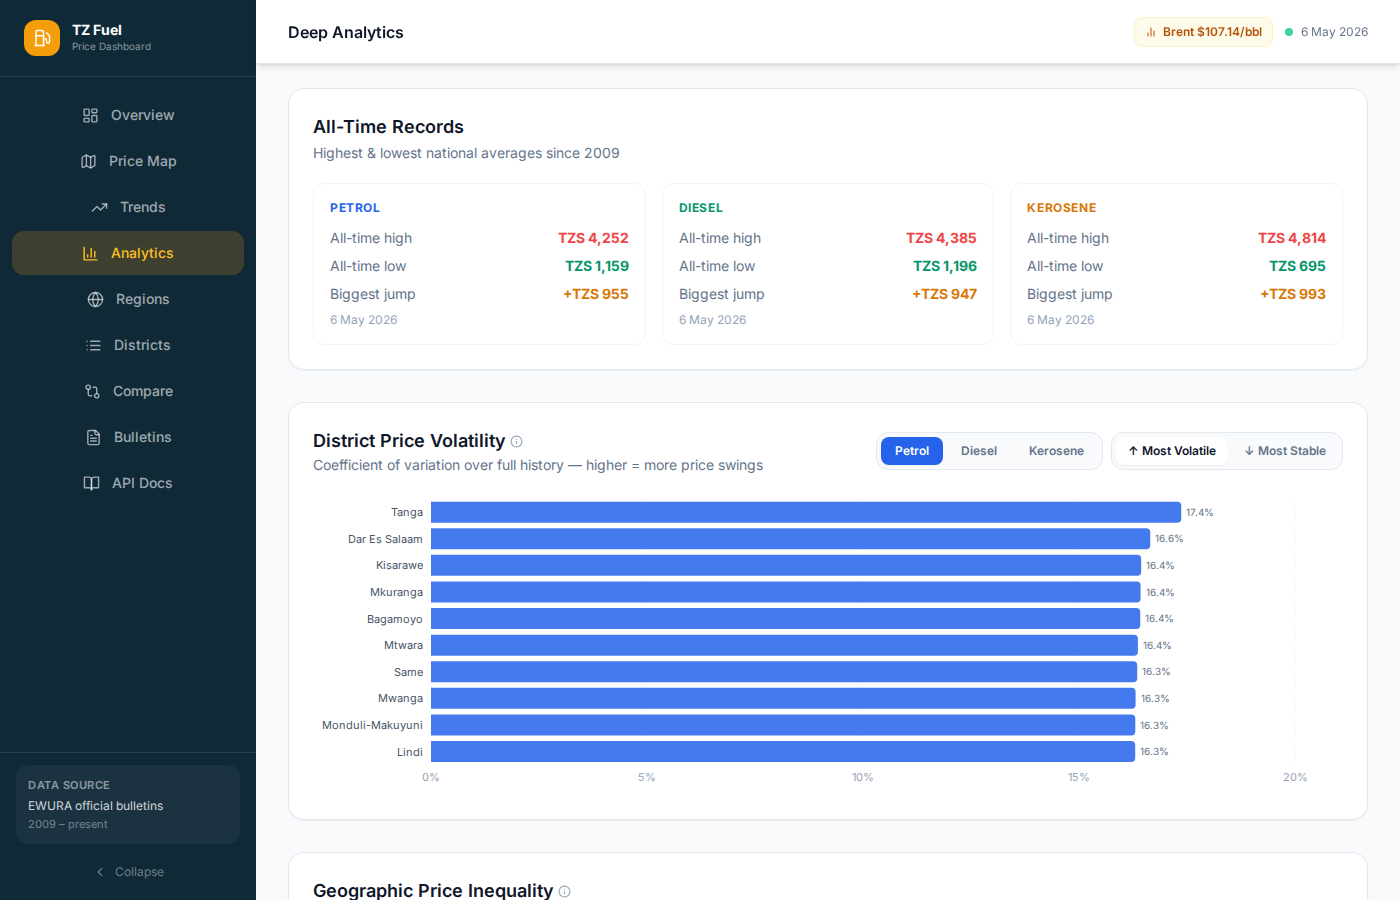
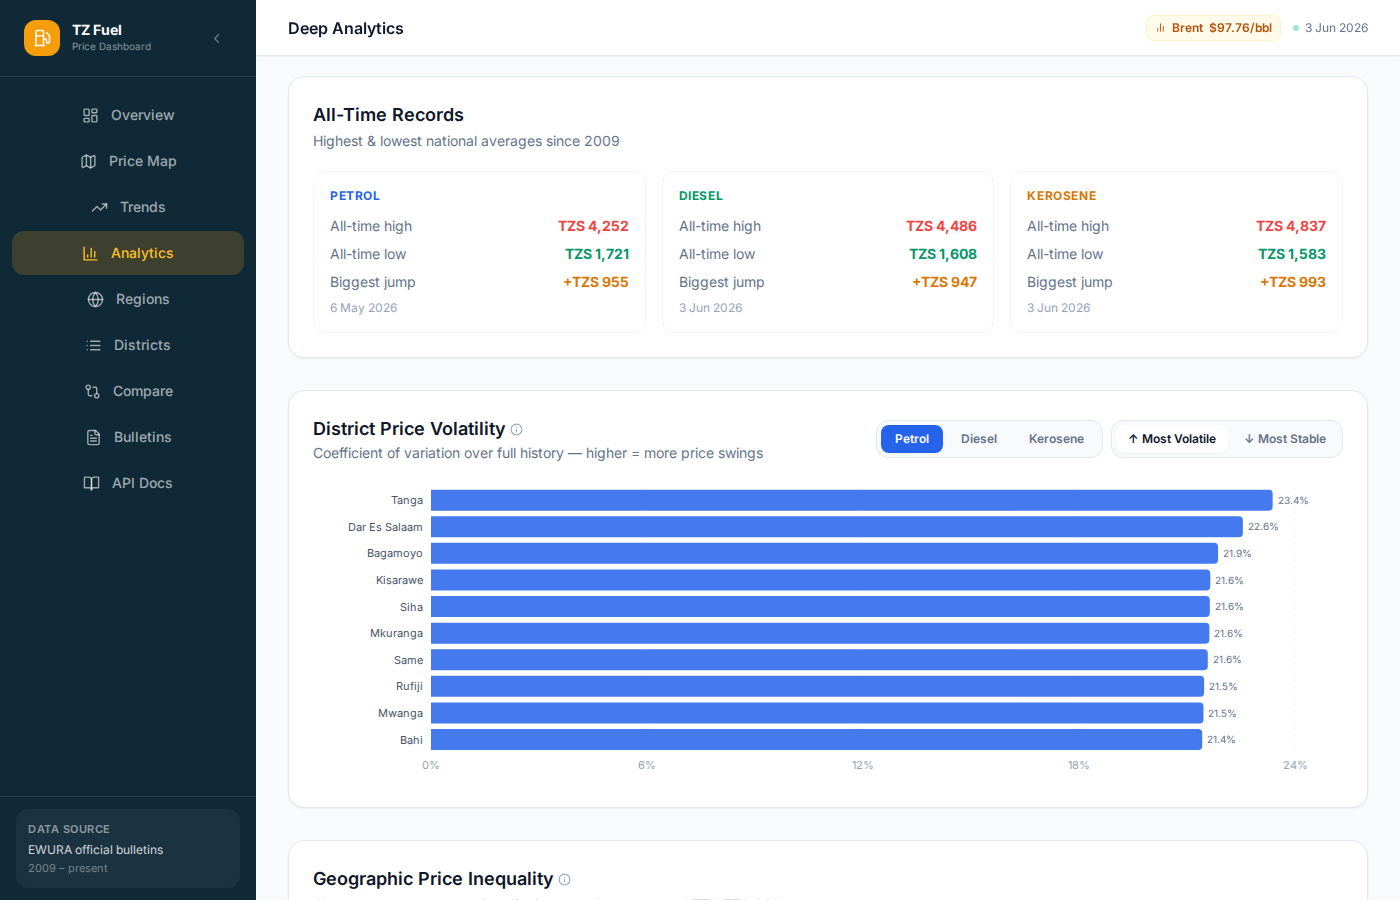
Update screenshots, fix Brent quality guard, refresh README stats
- Retake all 6 README screenshots with verified June 2026 data
  (Brent $97.76/bbl confirmed from real market sources)
- Raise Brent MoM guard from 25% to 75% so real geopolitical shocks
  (Strait of Hormuz 2026: +45% Feb→Mar) don't incorrectly skip SARIMAX-X
- README: update record count to 19,900+ / 131 periods; fix AIC numbers

diff --git a/main.py b/main.py
@@ -1831,17 +1831,17 @@ def _best_forecast(
         and sum(1 for v in brent_exog if v > 0) >= 12
     )
 
-    # Brent quality check: reject if recent months show implausible jumps (> 25% MoM)
-    # EIA DEMO_KEY sometimes returns wrong 2026 data — this guards against corrupting SARIMAX-X
+    # Brent quality check: reject only truly implausible jumps (> 75% MoM) caused by stale DEMO_KEY data.
+    # Real geopolitical shocks (e.g. Strait of Hormuz 2026: Feb→Mar +45%) are legitimate and must pass.
     if has_brent:
         recent_b = [v for v in (brent_exog or [])[-6:] if v and v > 0]
         if len(recent_b) >= 2:
             mom_jumps = [abs(recent_b[i] - recent_b[i-1]) / recent_b[i-1] for i in range(1, len(recent_b))]
-            if max(mom_jumps) > 0.25:
+            if max(mom_jumps) > 0.75:
                 has_brent = False
                 comparison["SARIMAX-X (Brent crude)"] = {
                     "aic": None, "r_squared": None, "converged": False, "selected": False,
-                    "note": "Skipped — recent Brent data has implausible jump (>25% MoM). Register a free EIA API key at eia.gov for accurate data.",
+                    "note": "Skipped — recent Brent data has implausible jump (>75% MoM), likely stale EIA DEMO_KEY data.",
                 }
 
     model_fns = [

diff --git a/README.md b/README.md
@@ -25,8 +25,8 @@ Dashboard at **[fuel.mahembega.com](https://fuel.mahembega.com)**
 
 ## Features
 
-- **10,996+ fuel price records** from 80 pricing periods (2009–present)
-- **192 districts** across mainland Tanzania and Zanzibar
+- **19,900+ fuel price records** from 131 pricing periods (2009–present)
+- **190 districts** across mainland Tanzania and Zanzibar
 - **Monthly PDF scraping** from EWURA's official website
 - **Automated scheduling** — new prices fetched on the 6th of each month
 - **Multi-model forecasting** — auto-selects best model (Holt-Winters ETS, ARIMA, SARIMA, SARIMAX-X with Brent crude)
@@ -88,9 +88,9 @@ The `/api/v1/analytics/forecast` endpoint fits four competing models and picks t
 | **SARIMA(1,1,1)(1,0,0,12)** | ARIMA with 12-month seasonal component |
 | **SARIMAX-X (Brent crude)** | SARIMA with Brent crude oil price as exogenous variable |
 
-As of June 2026, **Holt-Winters ETS wins** (AIC 256 vs 315+ for others) with R² ≈ 0.90 across all fuel types.
+As of June 2026, **Holt-Winters ETS wins** (AIC 386 vs 473+ for ARIMA/SARIMA/SARIMAX-X) with R² of 0.84–0.89 across fuel types. SARIMAX-X with Brent crude runs and is evaluated every call; it loses to Holt-Winters because TZS fuel prices are driven as much by exchange-rate depreciation as by raw oil prices, diluting Brent's predictive power.
 
-> For best SARIMAX-X accuracy, register a free EIA API key at [eia.gov/opendata](https://www.eia.gov/opendata/) and set `EIA_API_KEY` in your environment. The default `DEMO_KEY` can return unreliable recent data.
+> For best results, register a free EIA API key at [eia.gov/opendata](https://www.eia.gov/opendata/) and set `EIA_API_KEY` in your environment.
 
 ---
 
